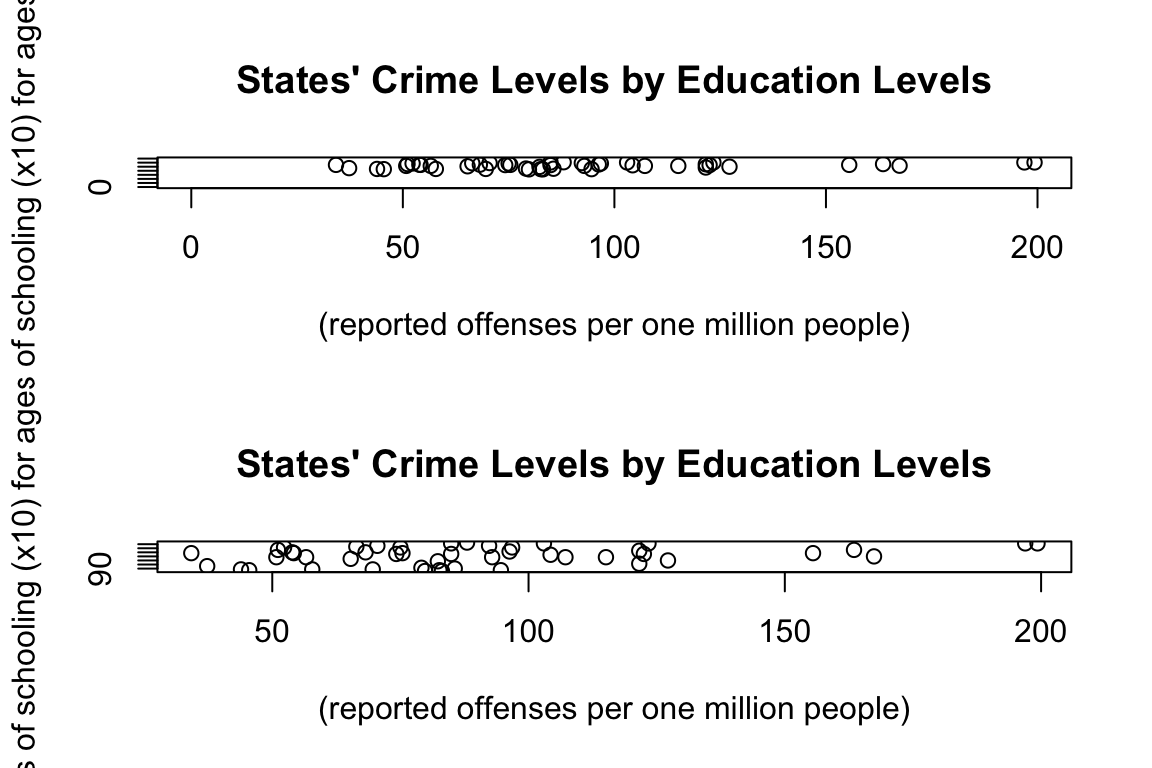
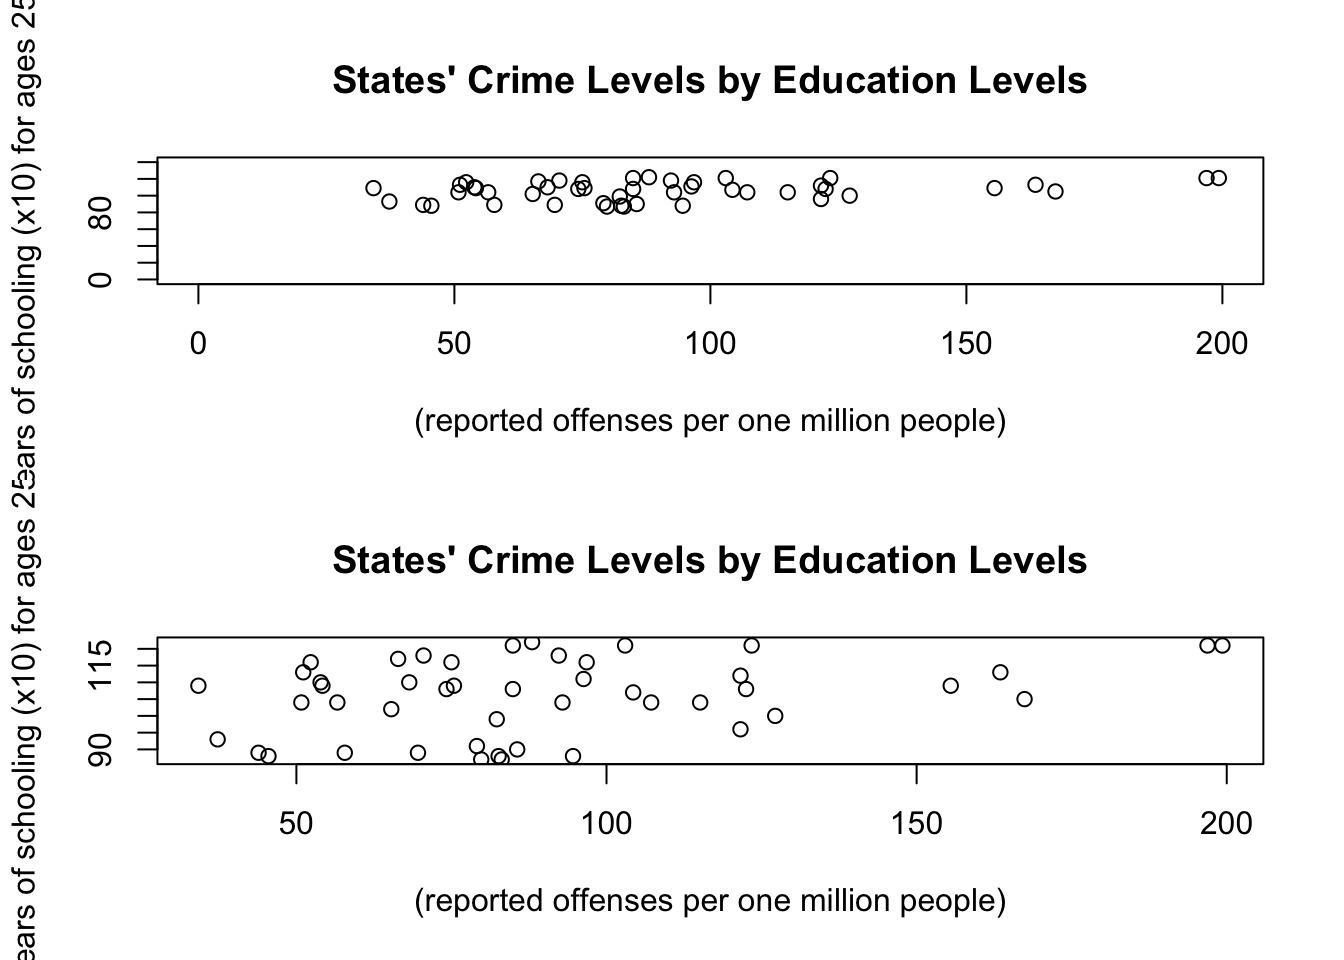
Graph Change

diff --git a/docs/Journal.html b/docs/Journal.html
@@ -827,7 +827,7 @@ plot(dat.crime$R, dat.crime$Ed,  main=&quot;States&#39; Crime Levels by Educatio
     xlab=&quot;(reported offenses per one million people)&quot;, ylab=&quot;(mean years of schooling (x10) for ages 25 and older)&quot;, xlim=c(0,200), ylim=c(0,140))
 plot(dat.crime$R, dat.crime$Ed,  main=&quot;States&#39; Crime Levels by Education Levels&quot;,
     xlab=&quot;(reported offenses per one million people)&quot;, ylab=&quot;(mean years of schooling (x10) for ages 25 and older)&quot;)</code></pre>
-<p><img src="Journal_files/figure-html/unnamed-chunk-33-1.png" width="576" /></p>
+<p><img src="Journal_files/figure-html/unnamed-chunk-33-1.png" width="672" /></p>
 <p>The calculated correlation between years of education and reported crime is 0.3228349. The relationship between the two variables thus appears to be low and statistically insignificant as the calculated value is a mere 0.3228349. The existing correlation may be a consequence of external forces. Disparities in schooling requirements may for example skew both variables as residents of particularly large or small states may be required to continue attending or deterred from remaining in school. The differences in social action may contribute to the formulation of an insignificant correlation. Visually, as indicated in the first graph, most plots appear to be scattered randomly across the determined scales. Fitting a regression line would be difficult for such a distribution. While the distribution does appear to become more narrowed once the scale is made to include 0 as the minimum value for the x- and y-axis, the distribution appears to be a consequence of the graph’s manipulation rather than the variable’s relationship.</p>
 </div>
 <div id="problem-3." class="section level3">
